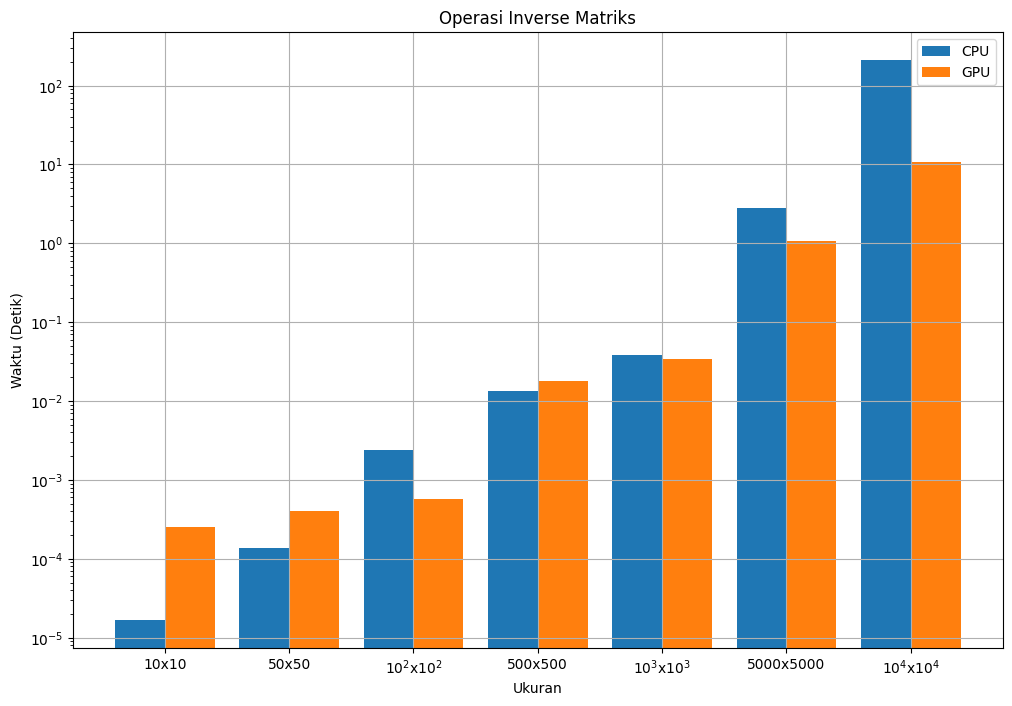
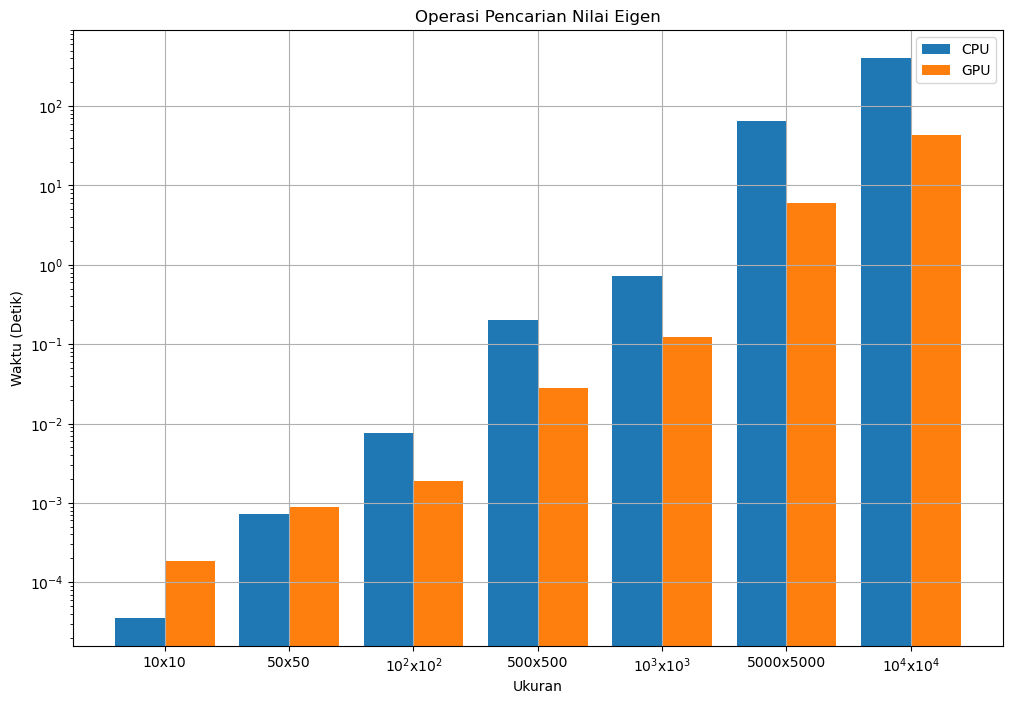
feat: revisi pencarian nilai eigen

diff --git a/Bab5.tex b/Bab5.tex
@@ -1,6 +1,8 @@
 \chapter{HASIL DAN PEMBAHASAN}
 
-Kajian mengenai Pemanfaatan General Purpose GPU dengan Bahasa Pemrograman Julia untuk Komputasi Berunjuk Kerja Tinggi ini diawali dengan melakukan pengukuran kecepatan eksekusi secara series oleh CPU dan secara paralel oleh GPU pada operasi penjumlahan, kemudian diakhiri dengan operasi pencarian nilai eigen. Operasi penjumlahan dinilai operasi paling sederhana sehingga dilakukan di paling awal. Sedangkan operasi pencarian nilai eigen dinilai sebagai operasi paling kompleks sehingga dilakukan di paling akhir.
+Kajian mengenai Pemanfaatan General Purpose GPU dengan Bahasa Pemrograman Julia untuk Komputasi Berunjuk Kerja Tinggi ini diawali dengan melakukan pengukuran kecepatan eksekusi secara series oleh CPU dan secara paralel oleh GPU pada operasi penjumlahan, kemudian diakhiri dengan operasi pencarian nilai eigen.
+
+% Operasi penjumlahan dinilai operasi paling sederhana sehingga dilakukan di paling awal. Sedangkan operasi pencarian nilai eigen dinilai sebagai operasi paling kompleks sehingga dilakukan di paling akhir.
 
 \section{Cara Kerja GPU di Julia}
 
@@ -19,7 +21,7 @@ Sedangkan eksekusi kode di GPU dilakukan dengan
 CUDA.@sync C .= A .+ B
 \end{lstlisting}
 
-\nodindent
+\noindent
 Eksekusi GPU di Julia dilakukan secara \emph{asynchronous}, sehingga CPU tidak menunggu GPU untuk menyelesaikan eksekusi nya. Agar CPU dapat menunggu GPU dalam melakukan eksekusi nya, digunakan \cw{@sync} yang berarti bahwa proses eksekusi di GPU berlangsung secara \emph{synchronous}, sehingga CPU akan menunggu eksekusi GPU hingga eksekusi nya selesai.
 
 \begin{figure}[H]
@@ -222,39 +224,73 @@ Berdasarkan Gambar \ref{img:result_inverse}, pada ukuran matriks yang kecil, kec
 
 Jika dilihat dari Tabel \ref{tab:result_inverse} pada variasi ke-7, kecepatan eksekusi paralel oleh GPU mempunyai durasi kurang dari 11 detik, sedangkan kecepatan eksekusi series oleh CPU mempunyai durasi lebih dari 3 menit. Jika ukuran matriks nya ditambahkan, diperkirakan akan semakin jauh durasi ekeskusi paralel oleh GPU dan durasi eksekusi series oleh CPU. Untuk itu, jika terdapat operasi pencarian inverse matriks, bisa menggunakan CPU untuk ukuran matriks yang kecil, dan bisa menggunakan GPU untuk ukuran matriks yang besar.
 
-\subsection{Pencarian Nilai Eigen}
+% \subsection{Pencarian Nilai Eigen}
+%
+% Berdasarkan bagian \ref{Nilai Eigen}, operasi pencarian nilai eigen matriks merpakan operasi yang paling kompleks pada kajian ini. Untuk itu, diperkirakan hasil yang diperoleh akan berbeda dari operasi operasi sebelumnya. Hasil dari simulasi operasi pencarian nilai eigen dapat dilihat pada Tabel \ref{tab:result_eigenvalue} dan Gambar \ref{img:result_eigenvalue}.
+%
+% \begin{figure}[H]
+% 	\centering
+% 	\includegraphics[width=14cm, scale=1]{images/penelitian/eigenvalue.png}
+% 	\caption{Hasil dari Pencarian Nilai Eigen}
+% 	\label{img:result_eigenvalue}
+% \end{figure}
+%
+% Berdasarkan Gambar \ref{img:result_eigenvalue}, pada ukuran matriks yang kecil, kecepatan eksekusi series oleh CPU lebih cepat daripada kecepatan eksekusi paralel oleh GPU. Namun, seiring bertambahnya ukuran matriks, kecepatan eksekusi paralel oleh GPU berhasil lebih cepat daripada kecepatan eksekusi series oleh CPU.
+%
+% \begin{table}[H]
+% 	\centering
+% 	\caption{Hasil dari Pencarian Nilai Eigen}
+% 	\label{tab:result_eigenvalue}
+% 	\begin{tabular}{ccc}
+% 		\toprule
+% 		Variasi & CPU (s)    & GPU (s)   \\
+% 		\midrule
+% 		1       & 0.000035   & 0.000188  \\
+% 		2       & 0.000718   & 0.000885  \\
+% 		3       & 0.007700   & 0.001865  \\
+% 		4       & 0.200065   & 0.027872  \\
+% 		5       & 0.731179   & 0.121742  \\
+% 		6       & 65.235088  & 5.941858  \\
+% 		7       & 403.052508 & 42.954285 \\
+% 		\bottomrule
+% 	\end{tabular}
+% \end{table}
+%
+% Jika dilihat dari \ref{tab:result_eigenvalue} pada variasi ke-7, kecepatan eksekusi paralel oleh GPU mempunyai durasi rata-rata kurang dari 43 detik, sedangkan kecepatan eksekusi series oleh CPU mempunyai durasi rata-rata lebih dari 6 menit. Jika ukuran matriks nya ditambah, maka diperkirakan akan menghasilkan perbedaan kecepatan yang jauh lebih berbeda antara eksekusi series oleh CPU dan eksekusi paralel oleh GPU. Untuk itu, jika terdapat operasi pencarian nilai eigen dari suatu matriks, dapat menggunakan CPU untuk ukuran matriks yang kecil, dan dapat menggunakan GPU untuk ukuran matriks yang besar.
 
-Berdasarkan bagian \ref{Nilai Eigen}, operasi pencarian nilai eigen matriks merpakan operasi yang paling kompleks pada kajian ini. Untuk itu, diperkirakan hasil yang diperoleh akan berbeda dari operasi operasi sebelumnya. Hasil dari simulasi operasi pencarian nilai eigen dapat dilihat pada Tabel \ref{tab:result_eigenvalue} dan Gambar \ref{img:result_eigenvalue}.
+\section{Operasi Pencarian Nilai Eigen}
+
+Simulasi operasi penjumlahan hingga simulasi operasi inverse, penulis menggunakan matriks yang berisikan elemen yang bernilai acak. Pada operasi pencarian nilai eigen ini, digunakan bentuk matriks yang elemen nya bernilai tidak acak, yakni didasarkan ungkapan persamaan schrodinger melalui pendekatan metode beda-hingga pada Persamaan \ref{eq:schrodinger_finite_matrix}. Hasil dari simulasi operasi pencarian nilai eigen dapat dilihat pada Tabel \ref{tab:result_eigenvalue_schrodinger} dan Gambar \ref{img:result_eigenvalue_schrodinger}.
 
 \begin{figure}[H]
 	\centering
-	\includegraphics[width=14cm, scale=1]{images/penelitian/eigenvalue.png}
+	\includegraphics[width=14cm, scale=1]{images/penelitian/eigenvalue-schrodinger.png}
 	\caption{Hasil dari Pencarian Nilai Eigen}
-	\label{img:result_eigenvalue}
+	\label{img:result_eigenvalue_schrodinger}
 \end{figure}
 
-Berdasarkan Gambar \ref{img:result_eigenvalue}, pada ukuran matriks yang kecil, kecepatan eksekusi series oleh CPU lebih cepat daripada kecepatan eksekusi paralel oleh GPU. Namun, seiring bertambahnya ukuran matriks, kecepatan eksekusi paralel oleh GPU berhasil lebih cepat daripada kecepatan eksekusi series oleh CPU.
+Berdasarkan Gambar \ref{img:result_eigenvalue_schrodinger}, pada ukuran matriks yang kecil diperoleh keceaptan eksekusi series oleh CPU yang lebih cepat daripada kecepatan eksekusi paralel oleh GPU. Kemudian, seiring bertambahnya ukuran matriks, diperoleh kecepatan eksekusi paralel oleh GPU yang lebih cepat daripada kecepatan eksekusi series oleh CPU.
 
 \begin{table}[H]
 	\centering
 	\caption{Hasil dari Pencarian Nilai Eigen}
-	\label{tab:result_eigenvalue}
+	\label{tab:result_eigenvalue_schrodinger}
 	\begin{tabular}{ccc}
 		\toprule
 		Variasi & CPU (s)    & GPU (s)   \\
 		\midrule
-		1       & 0.000035   & 0.000188  \\
-		2       & 0.000718   & 0.000885  \\
-		3       & 0.007700   & 0.001865  \\
-		4       & 0.200065   & 0.027872  \\
-		5       & 0.731179   & 0.121742  \\
-		6       & 65.235088  & 5.941858  \\
-		7       & 403.052508 & 42.954285 \\
+		1       & 0.000021   & 0.000514  \\
+		2       & 0.000851   & 0.001738  \\
+		3       & 0.006942   & 0.004741  \\
+		4       & 0.151598   & 0.071691  \\
+		5       & 0.466806   & 0.337955  \\
+		6       & 16.790000  & 6.325000  \\
+		7       & 129.823000 & 45.029000 \\
 		\bottomrule
 	\end{tabular}
 \end{table}
 
-Jika dilihat dari \ref{tab:result_eigenvalue} pada variasi ke-7, kecepatan eksekusi paralel oleh GPU mempunyai durasi rata-rata kurang dari 43 detik, sedangkan kecepatan eksekusi series oleh CPU mempunyai durasi rata-rata lebih dari 6 menit. Jika ukuran matriks nya ditambah, maka diperkirakan akan menghasilkan perbedaan kecepatan yang jauh lebih berbeda antara eksekusi series oleh CPU dan eksekusi paralel oleh GPU. Untuk itu, jika terdapat operasi pencarian nilai eigen dari suatu matriks, dapat menggunakan CPU untuk ukuran matriks yang kecil, dan dapat menggunakan GPU untuk ukuran matriks yang besar.
+Berdasarkan Tabel \ref{tab:result_eigenvalue_schrodinger}, durasi eksekusi series oleh CPU dan kecepatan eksekusi paralel oleh GPU mempunyai nilai yang hampir sama. Pada variasi ke ke-6, kecepatan eksekusi series oleh CPU mempunyai nilai yang kurang lebih $2,65$ kali lebih lambat daripada kecepatan eksekusi paralel oleh GPU. Sedangkan pada variasi ke ke-7, kecepatan eksekusi series oleh CPU mempunyai nilai yang kurang lebih $2,88$ kali lebih lambat daripada kecepatan eksekusi paralel oleh GPU. Perbedaan durasi eksekusi antara sistem series dan paralel pada simulasi pencarian nilai eigen ini tergolong tidak terlalu besar. Kemiripan kecepatan eksekusi ini diperkirakan karena sebagian besar Persamaan \ref{eq:schrodinger_finite_matrix} mempunyai elemen matriks yang bernilai nol, sehingga kecepatan eksekusi sistem series oleh CPU dapat mengeksekusi operasi dengan cepat. Namun, jika matriks diperbesar lagi, kemungkinan akan diperoleh perbedaan yang durasi eksekusi yang lebih jauh lagi antara eksekusi series oleh CPU dan eksekusi paralel oleh GPU.
 
 \section{Pembahasan Secara Umum}
 
@@ -262,9 +298,9 @@ Pada kajian ini, dilakukan simulasi operasi matriks yang dijalankan pada sistem 
 
 Jika dilihat dari hasil gambar grafik pada masing-masing simulasi, terdapat titik dimana kecepatan eksekusi sistem paralel oleh GPU \textbf{mulai} lebih cepat daripada kecepatan eksekusi sistem series oleh CPU. Titik ini penulis sebut dengan \emph{titik balik}. Pada operasi penjumlahan, pengurangan, dan perkalian skalar dengan matriks, titik balik nya adalah di ukuran matriks $500 \times 500$ atau pada variasi ke-4. Kemudian pada operasi yang lebih kompleks, yakni operasi perkalian antar matriks, pencarian inverse, dan pencarian nilai eigen, titik balik nya ada pada ukuran matriks $100 \times 100$ atau variasi ke-3. Hasil ini dapat disimpulkan bahwa seiring meningkatnya kompleksistas operasi, eksekusi menggunakan sistem paralel oleh GPU dapat lebih efektif daripada eksekusi pada sistem series oleh CPU.
 
-Jika dilihat dari hasil tabel pada masing-masing simulasi, semakin tinggi kompleksitas operasi maka semakin tinggi pula perbedaan durasi eksekusi pada ukuran matriks terbesar (variasi ke-7). Pada operasi penjumlahan, pengurangan, dan perkalian skalar dengan matriks, perbedaan durasi eksekusi pada variasi ke-7 secara umum mempunyai rata-rata kurang dari 1 detik. Namun, pada operasi yang lebih kompleks, yakni operasi perkalian antar matriks, pencarian inverse, dan pencarian nilai eigen, durasi eksekusi pada variasi ke-7 antara sistem series oleh CPU dan sistem paralel oleh GPU semua nya diatas 1 detik dan perbedaan paling besar ada pada simulasi pencarian nilai eigen. Hasil ini dapat disimpulkan bahwa seiring meningkatnya kompleksitas operasi dan seiring meningkatnya ukuran matriks, eksekusi paralel oleh GPU jauh lebih efektif daripada eksekusi series oleh CPU.
+Jika dilihat dari hasil tabel pada masing-masing simulasi, semakin tinggi kompleksitas operasi maka semakin tinggi pula perbedaan durasi eksekusi pada ukuran matriks terbesar (variasi ke-7). Pada operasi penjumlahan, pengurangan, dan perkalian skalar dengan matriks, perbedaan durasi eksekusi pada variasi ke-7 secara umum mempunyai rata-rata kurang dari 1 detik. Namun, pada operasi yang lebih kompleks, yakni operasi perkalian antar matriks, pencarian inverse, dan pencarian nilai eigen, durasi eksekusi pada variasi ke-7 antara sistem series oleh CPU dan sistem paralel oleh GPU semua nya diatas 1 detik dan perbedaan paling besar ada pada simulasi operasi inverse. Dari hasil ini dapat disimpulkan bahwa seiring meningkatnya kompleksitas operasi dan seiring meningkatnya ukuran matriks, eksekusi paralel oleh GPU jauh lebih efektif daripada eksekusi series oleh CPU.
 
-Operasi matriks tidak bergantung satu sama lain, sehingga dapat dijalankan dengan baik pada sistem paralel. Namun, pada hasil yang telah diperoleh, pada matriks berukuran kecil, sistem series lebih cepat melakukan dalam menjalankan eksekusi daripada sistem paralel. Hal ini disebabkan karena semua program pada dasarnya dijalankan di CPU. Untuk sistem series, maka eksekusi program tersebut dapat langsung dijalankan. Akan tetapi, untuk sistem paralel, eksekusi program tersebut perlu dikirimkan dari CPU ke GPU, kemudian setelah selesai dikomputasikan akan dikirimkan kembali ke CPU. Proses transfer data ini akan tampak lama jika data yang ditransferkan berukuran kecil. Dengan kata lain, proses transfer data dari CPU ke GPU dan dari GPU ke CPU akan tampak lama jika ukuran data matriks nya sedikit (matriks berukuran kecil).
+Operasi matriks tidak bergantung satu sama lain, sehingga dapat dijalankan dengan baik pada sistem paralel. Namun, dari hasil percobaan yang telah diperoleh, pada matriks berukuran kecil, sistem series lebih cepat melakukan dalam menjalankan eksekusi daripada sistem paralel. Hal ini disebabkan karena semua program pada dasarnya dijalankan di CPU. Untuk sistem series, maka eksekusi program tersebut dapat langsung dijalankan. Akan tetapi, untuk sistem paralel, eksekusi program tersebut perlu dikirimkan dari CPU ke GPU, kemudian setelah selesai dikomputasikan akan dikirimkan kembali ke CPU. Proses transfer data ini akan tampak lama jika data yang ditransferkan berukuran kecil. Dengan kata lain, proses transfer data dari CPU ke GPU dan dari GPU ke CPU akan tampak lama jika ukuran data matriks nya sedikit (matriks berukuran kecil).
 
 Dari hasil yang telah diperoleh pada masing-masing simulasi, terlihat bahwa pada ukuran matriks yang sedikit, eksekusi sistem series oleh CPU mampu lebih cepat daripada eksekusi sistem series oleh GPU. Penulis tidak memperkirakan jika CPU dapat berjalan secepat itu. Kemungkinan cepat nya eksekusi pada CPU ini disebabkan karena CPU yang penulis pakai menggunakan Intel Core i7 tipe U generasi 10, yang mana merupakan salah satu CPU tercepat di kelas nya. Untuk itu, jika simulasi dilakukan dengan menggunakan CPU lain yang lebih lambat, diperkirakan akan diperoleh \emph{titik balik} yang lebih awal.
 

diff --git a/Bab3.tex b/Bab3.tex
@@ -1014,6 +1014,86 @@ Solusi dari persamaan \ref{eq:eigenvalue_infinite_square_well} merupakan bentuk 
 persamaan sinusoidal. Berdasarkan \cite{dalessandrisSpiralModernPhysics2024},
 bentuk grafik nya dapat digambarkan seperti Gambar \ref{img:solution_infinite_square_well}.
 
+Aplikasi penggunaan pencarian nilai eigen juga dapat ditemukan ketika mencari nilai eigen dari persamaan schrodinger melalui pendekatan metode beda hingga. Bentuk turunan kedua dari pendekatan metode beda hingga pada titik $x_i$ dapat dituliskan
+
+\begin{equation} \label{eq:finite_difference_method}
+	\frac{d^2 f}{dx^2} \bigg|_{x=x_i} \approx \frac{f_{i-1} - 2f_i + f_{i+1}}{(\Delta x)^2}
+\end{equation}
+
+\noindent
+dengan \( f_i = f(x_i) \) dan \( \Delta x = x_{i+1} - x_i \). Kemudian bentuk umum persamaan Schrodinger pada suatu sistem dengan potensial $V(x)$ dapat dituliskan
+
+\begin{equation} \label{eq:schrodinger_eq}
+	-\frac{\hbar^2}{2m} \frac{d^2 \psi(x)}{dx^2} + V(x) \psi(x) = E \psi(x)
+\end{equation}
+
+Jika Persamaan \ref{eq:finite_difference_method} disubstitusikan ke dalam Persamaan \ref{eq:schrodinger_eq}, maka akan diperoleh persamaan
+
+\begin{equation*}
+	-\frac{\hbar^2}{2m} \left( \frac{\psi_{i-1} - 2\psi_i + \psi_{i+1}}{(\Delta x)^2} \right) + V_i \psi_i = E \psi_i
+\end{equation*}
+
+\noindent
+dengan \( V_i = V(x_i) \) dan \( \psi_i = \psi(x_i) \). Persamaan tersebut juga dapat disajikan menjadi
+
+\begin{equation} \label{eq:schrodinger_finite_method_1}
+	-\psi_{i-1} + \left(2 + \frac{2m(\Delta x)^2}{\hbar^2} V_i - \frac{2m(\Delta x)^2}{\hbar^2} E\right) \psi_i - \psi_{i+1} = 0
+\end{equation}
+
+\noindent
+Jika diperkenalkan besaran tak bersatuan berikut
+
+\begin{equation} \label{eq:unitless_schrodinger_finite}
+	b_i = \gamma^2 (\Delta x)^2 = \frac{2m(\Delta x)^2 V_i}{\hbar^2}, \quad \lambda = \epsilon^2 (\Delta x)^2 = \frac{2m(\Delta x)^2 E}{\hbar^2}
+\end{equation}
+
+\noindent
+dimana $\epsilon$ mewakili energi sistem yang dinormalisasi, sedangkan $\gamma_i$ mewakili potensial sistem pada titik tertentu. Kemudian jika besaran tersebut dimasukkan ke Persamaan \ref{eq:schrodinger_finite_method_1}, maka akan diperoleh persamaan
+
+\begin{equation}\label{eq:schrodinger_finite_method_2}
+	-\psi_{i-1} + (2 + b_i - \lambda) \psi_i - \psi_{i}
+\end{equation}
+
+Jika misalnya terdapat partikel bermassa \( m \) yang terjebak dalam potensial berbentuk sumur dengan kedalaman tak berhingga dan dibatasi oleh dinding sumur di \( x = -1 \) dan \( x = +1 \). Anggap bahwa \( x_0 = -1 \), \( x_N = +1 \) dan daerah di dalam sumur dibagi menjadi \( N \) bagian sedemikian hingga
+
+\[
+	\Delta x = \frac{2}{N}; \quad x_j = x_0 + j\Delta x; \quad j = 1, 2, 3, \ldots, N
+\]
+
+\noindent
+Berdasarkan hasil pada penyelesaian potensial sumur tak berhingga maka diketahui bahwa \( \psi_0 = 0 \), \( \psi_N = 0 \) dan \( b_i = 0 \). Dengan demikian maka persamaan beda hingga yang mewakili persamaan Schrodinger \ref{eq:schrodinger_finite_method_2} dapat dituliskan dalam bentuk matriks
+
+\begin{equation} \label{eq:schrodinger_finite_matrix}
+	\begin{bmatrix}
+		2 - \lambda & -1          & \cdots & 0           \\
+		-1          & 2 - \lambda & \cdots & 0           \\
+		\vdots      & \vdots      & \ddots & \vdots      \\
+		0           & 0           & \cdots & 2 - \lambda \\
+	\end{bmatrix}
+	\begin{bmatrix}
+		\psi_1     \\
+		\psi_2     \\
+		\vdots     \\
+		\psi_{N-1} \\
+	\end{bmatrix}
+	= \begin{bmatrix}
+		0      \\
+		0      \\
+		\vdots \\
+		0      \\
+	\end{bmatrix}
+\end{equation}
+
+\noindent
+Persamaan diatas sudah dalam bentuk matriks, sehingga akan lebih mudah untuk dimasukkan ke model komputasi agar diperoleh nilai eigen nya. Berdasarkan besaran tak bersatuan \ref{eq:unitless_schrodinger_finite}, dapat diperoleh kaitan seperti berikut
+
+\begin{equation}
+	\epsilon = \frac{1}{\Delta x} \sqrt{\lambda}, \quad \gamma_i = \frac{1}{\Delta x} \sqrt{b_i}
+\end{equation}
+
+\noindent
+Pada persamaan \ref{eq:schrodinger_finite_matrix}, nilai $b_i$ dianggap nol. Namun, jika nilai $b_i$ ini tidak dianggap nol, maka berdasarkan kaitan diatas, dapat diperoleh nilai $b_i$ dari nilai $gamma_i$ nya.
+
 % \section{Fisika Komputasi}
 
 % Fisika Komputasi adalah cabang ilmu pengetahuan yang memadukan prinsip-prinsip

diff --git a/lampiran.tex b/lampiran.tex
@@ -325,22 +325,47 @@ end
 \section{\emph{Module}}
 
 \begin{lstlisting}
+using LinearAlgebra
+using SparseArrays
 using CUDA
-using DataFrames
 using Statistics
+using DataFrames
+\end{lstlisting}
+
+\section{Fungsi pembuat matriks persamaan schrodinger melalui pendekatan beda-hingga}
+
+\begin{lstlisting}
+function build_matrix(n::Int)
+    dx = 2.0f0 / n  # Menggunakan literal Float32
+    gamma = 50.0f0  # Menggunakan literal Float32
+    b = (gamma * dx) ^ 2
+    y = LinRange(-2.0f0, 2.0f0, n)  # Memastikan y adalah Float32
+
+    main_diag = fill(2.0f0, n)  # Isi dengan Float32
+    off_diag = fill(-1.0f0, n-1)  # Isi dengan Float32
+    a_sparse = spdiagm(0 => main_diag, 1 => off_diag, -1 => off_diag)
+
+    # Penyesuaian elemen diagonal berdasarkan y
+    for j in 1:n
+        if y[j] <= -1.0 || y[j] >= 1.0
+            a_sparse[j, j] += b
+        end
+    end
+
+    return Matrix{Float32}(a_sparse)  # Konversi eksplisit matriks ke Float32
+end
 \end{lstlisting}
 
 \section{Untuk dijalankan di GPU}
 
 \begin{lstlisting}
-function eigen_gpu(A_gpu)
-    A_cpu = Array{Float64}(A_gpu)
-    return eigvals(A_cpu)
-end
-
-function simulate_gpu(A_normal)
-    A_gpu = CUDA.cu(A_normal)
-    gpu_start = CUDA.@elapsed result_gpu = eigen_gpu(A_gpu)
+function simulate_gpu(A)
+    gpu_start = CUDA.@elapsed begin
+        eigenvalues, eigenvectors = CUDA.@sync eigen(A)
+        idx = sortperm(eigenvalues)
+        eigenvalues = eigenvalues[idx]
+        eigenvectors = eigenvectors[:, idx]
+    end
     return gpu_start
 end
 \end{lstlisting}
@@ -348,12 +373,14 @@ end
 \section{Untuk dijalankan di CPU}
 
 \begin{lstlisting}
-function eigen_cpu(A)
-    return eigvals(A)
-end
+function simulate_cpu(A)
+    cpu_start = @elapsed begin
+        eigenvalues, eigenvectors = eigen(A)
+        idx = sortperm(eigenvalues)
+        eigenvalues = eigenvalues[idx]
+        eigenvectors = eigenvectors[:, idx]
+    end
 
-function simulate_cpu(A_normal)
-    cpu_start = @elapsed result_cpu = eigen_cpu(A_normal)
     return cpu_start
 end
 \end{lstlisting}
@@ -361,19 +388,23 @@ end
 \section{Simulasi}
 
 \begin{lstlisting}
-function simulate(N::Int64, n_loop::Int64)
-    println("Matrix size: $(N)x$(N)")
-    results_gpu = []
-    results_cpu = []
-    for i in 1:n_loop
-        A_normal = rand(Float64, N, N)
-        benchmark_gpu = simulate_gpu(A_normal)
-        benchmark_cpu = simulate_cpu(A_normal)
+function simulate(n::Int, n_loop::Int)
+    println("Matrix size: $n x $n")
+    results_gpu = Float32[]
+    results_cpu = Float32[]
+
+    A_cpu = build_matrix(n)
+    A_gpu = CuArray(A_cpu)
+
+    for _ in 1:n_loop
+        benchmark_gpu = simulate_gpu(A_gpu)
+        benchmark_cpu = simulate_cpu(A_cpu)
         push!(results_gpu, benchmark_gpu)
         push!(results_cpu, benchmark_cpu)
     end
-    println("Mean CPU time: $(mean(results_cpu))")
-    println("Mean GPU time: $(mean(results_gpu))")
+
+    println("Mean CPU: $(mean(results_cpu))")
+    println("Mean GPU: $(mean(results_gpu))")
     return DataFrame(CPU=results_cpu, GPU=results_gpu)
 end
 \end{lstlisting}

diff --git a/Bab4.tex b/Bab4.tex
@@ -27,7 +27,7 @@ prosedur kerja, serta pemilihan dan konfigurasi perangkat keras.
 \section{Bahan}
 
 Data yang digunakan untuk melakukan operasi matriks pada penelitian ini adalah
-data random yang di-\emph{generate} oleh Julia menggunakan fungsi \cw{rand()}.
+data acak yang di-\emph{generate} oleh Julia menggunakan fungsi \cw{rand()}. Khusus pada bagian simulasi pencarian nilai eigen, digunakan bentuk matriks berdasarkan Persamaan \ref{eq:schrodinger_finite_matrix}.
 
 \section{Alat}
 
@@ -181,8 +181,12 @@ sistem paralel sebagai berikut
   \item Operasi Perkalian antara Skalar dengan Matriks
   \item Operasi Perkalian antar Matriks
   \item Inverse Matriks
-  \item Pencarian Eigenvalue dari Matriks
+  \item Pencarian Nilai Eigen
+  % \item Pencarian Nilai Eigen dari Matriks berdasarkan Persamaan  Persamaan \ref{eq:schrodinger_finite_matrix}
 \end{enumerate}
+
+\noindent
+Operasi penjumlahan hingga operasi inverse matriks menggunakan data elemen bernilai acak. Namun pada operasi pencarian nilai eigen, digunakan data matriks berdasarkan Persamaan \ref{eq:schrodinger_finite_matrix}.
 
 Pada langkah terakhir dari Gambar \ref{img:methods_execution} terdapat
 pengecekan variasi percobaan. Setiap operasi matriks terdapat 7 variasi
@@ -196,8 +200,11 @@ pengukuran nya:
   \item Variasi 4: Matriks berukuran $500 \times 500$
   \item Variasi 5: Matriks berukuran $10^3 \times 10^3$
   \item Variasi 6: Matriks berukuran $5000 \times 5000$
-  \item Variasi 7: Matriks berukuran $10^4 \times 10^4$
+  \item Variasi 7: Matriks berukuran $10^4 \times 10^4$ (Jika memungkinkan)
 \end{itemize}
+
+\noindent
+Khusus untuk variasi ke-7, terkadang terdapat keterbatasan memory (RAM/VRAM) sehingga tidak memungkinkan untuk dilakukan operasi dengan besar matriks $10^4 \times 10^4$. Untuk itu, pengkaji akan menurunkan ukuran matriks hingga cukup dialokasikan ke memory, sehingga operasi bisa dijalankan.
 
 \subsubsection{Analisis Data dan Penampilan Grafik}
 
